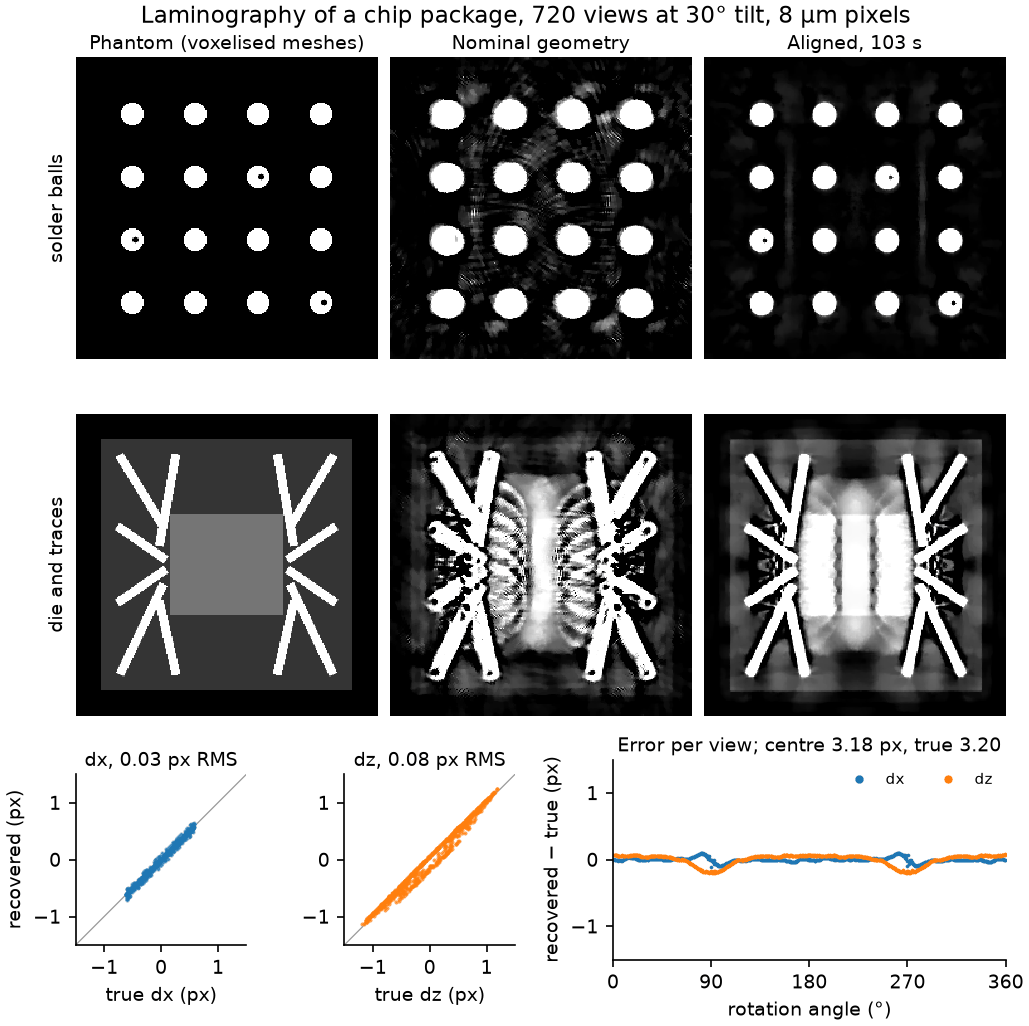
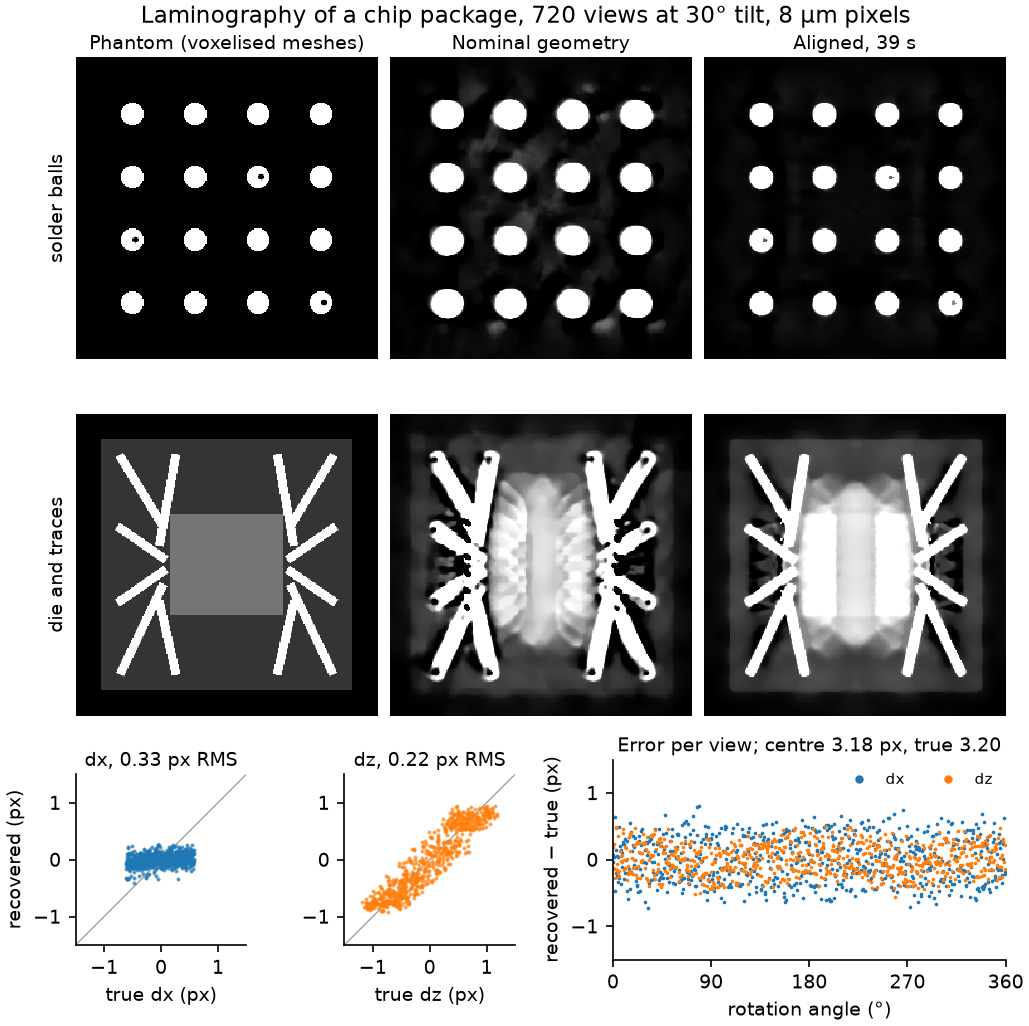
Remake the README alignment figure and the chip figure with today's tj.align
Both scripts now let FISTA-TV choose its TV weight: their fixed weights (0.01
and 5e-3) blurred every reconstruction, the true-pose one included, on today's
TV scale. The watch figure: 36 s to align, rotations to 0.06 deg RMS or
better, shifts to 0.47 / 0.29 px RMS (the slow wobble followed, the jitter
left), FISTA-TV error 0.876 nominal, 0.168 aligned, 0.199 at the true poses.
The chip figure: the centre to 0.02 px in 39 s, shifts to 0.33 / 0.22 px RMS.
The captions and records say so; the "earlier implementation" notes go.

The rock figure's second slice is now the one nearest the middle with no
calcite, pyrite or zircon nearby, whose streaks hid the grains; its docstring
gives the phantom's one-off build time.

diff --git a/examples/gallery/rock_alignment.py b/examples/gallery/rock_alignment.py
@@ -4,12 +4,13 @@ The sandstone core (``bench/phantoms/porous_rock.py``), voxelised 1.5 times fine
 384-voxel reconstruction grid, is scanned in parallel beam over a half turn without noise while
 it drifts smoothly by up to 4.5 voxels and slips by 6 voxels a third of the way through. The
 scan is reconstructed as loaded, with the nominal geometry, and after ``tj.align(scan)``; both use
-``tj.reconstruct``'s default method. Two slices through the sample, each with one enlarged
-region, share one grey range.
+``tj.reconstruct``'s default method. Two slices through the sample, clear of its calcite,
+pyrite and zircon grains, each with one enlarged region, share one grey range.
 
     uv run python examples/gallery/rock_alignment.py alignment-rock.png
 
-It takes about nine minutes on an 8 GB laptop GPU; ``--size 64`` makes a quick small version.
+The first run builds and caches the 576-voxel phantom, about nine minutes on the CPU; later
+runs take about 20 s on an 8 GB laptop GPU. ``--size 64`` makes a quick small version.
 """
 
 from __future__ import annotations
@@ -95,8 +96,19 @@ def main() -> None:
     core = radius < 0.33 * size  # crops on the sample's grains, not its outer edge
     filled = np.flatnonzero(truth.reshape(truth.shape[0], -1).mean(axis=1) > 0.5 * truth.mean())
     bottom = int(filled[0] * size / truth.shape[0]) + size // 32
-    heights = (("Lowest slice through the sample", bottom), ("Middle slice", size // 2))
-    top = float(np.percentile(aligned[size // 2][inside], 99.5))
+    # The second slice: the one nearest the middle with no grain denser than feldspar (calcite,
+    # pyrite, zircon) within two slices, whose streaks would hide the grains, and a quarter of
+    # the sample above the first.
+    ratio = truth.shape[0] / size
+    dense = truth.reshape(truth.shape[0], -1).max(axis=1) > 0.4
+    clear = [
+        z
+        for z in range(bottom + size // 4, int(filled[-1] / ratio) - size // 16)
+        if not dense[int((z - 2) * ratio) : int((z + 3) * ratio)].any()
+    ]
+    second = min(clear, key=lambda z: abs(z - size // 2))
+    heights = (("Lowest slice through the sample", bottom), ("A slice higher up", second))
+    top = float(np.percentile(aligned[second][inside], 99.5))
 
     side = CROP * size // N
     style()

diff --git a/examples/align_watch.py b/examples/align_watch.py
@@ -42,7 +42,7 @@ from tomojax.geometry import grid_volume_origin, stack_view_poses
 SIZE, LAYERS, FIELD, MIDDLE = 384, 82, 29.6, 3.0  # voxels, z layers, field (mm), centre z
 VIEWS, PHOTONS = 400, 2e4
 CENTER_PX, ROTATION_DEG = 5.3, 0.25
-RECONSTRUCTION = {"iterations": 100, "tv_weight": 0.01, "nonnegative": True, "warm_start": True}
+RECONSTRUCTION = {"iterations": 100, "nonnegative": True, "warm_start": True}
 ZOOM = 140  # voxels on a side of the balance close-up
 
 

diff --git a/examples/gallery/chip_laminography.py b/examples/gallery/chip_laminography.py
@@ -32,7 +32,7 @@ import numpy as np
 import tomojax as tj
 
 # Total variation keeps the metal's streaks down at laminography's limited angles.
-RECONSTRUCTION = {"iterations": 100, "tv_weight": 5e-3, "nonnegative": True}
+RECONSTRUCTION = {"iterations": 100, "nonnegative": True}
 
 
 def without_rigid_motion(values: np.ndarray, angles: np.ndarray) -> np.ndarray:

diff --git a/examples/README.md b/examples/README.md
@@ -65,19 +65,19 @@ from it. Over the whole slab the relative L2 error is 0.357 for FBP and
 400 views over a half turn and 2 × 10⁴ photons per pixel. The rotation axis
 projects 5.3 px off the detector centre, and every view has its own pose: a
 slow wobble plus jitter of up to 0.25° in each rotation, 2.4 px across the axis
-and 1.5 px along it. The earlier implementation used for the published figure took 300 s. It
-recovered the rotations to 0.06° RMS or better and the shifts to 0.07 px
-(across) and 0.04 px (along) RMS, and the error of a FISTA-TV reconstruction
-falls from 0.928 with the nominal geometry to 0.235. The script takes about
-6 minutes. Those measurements need requalification with the consolidated
-`fit=("translations", "rotations")` solver.
+and 1.5 px along it. `tj.align(scan, fit=("center", "translations", "rotations"))`
+takes 36 s. It recovers the rotations to 0.06° RMS or better and the shifts to
+0.47 px (across) and 0.29 px (along) RMS: it follows the slow wobble and leaves
+the view-to-view jitter. The error of a FISTA-TV reconstruction (automatic TV
+weight) falls from 0.876 with the nominal geometry to 0.168, against 0.199 with
+the true poses. The script takes about 4 minutes.
 
 Moving the whole movement rigidly, with every pose moved back, predicts the
 same data, as does trading the detector centre against a shift of every view,
 so `tj.align` reports the estimate with the least per-view motion. The truth,
 its poses and its centre are moved to that estimate before they are compared
 (see [where the aligned volume sits](../docs/align-a-scan.md#check-the-result));
-there the centre is found at 3.26 px against 3.31 px.
+there the centre is found at 3.08 px.
 
 ### Volume-render a reconstruction
 

diff --git a/docs/gallery.md b/docs/gallery.md
@@ -55,9 +55,9 @@ uv run python examples/gallery/k11_glass_layer.py k11-54286.nxs k11-glass-layer.
 A DIAD-like scan at 25 keV and 30° tilt, rendered by gVXR from the meshes of a
 chip package with phase contrast, detector blur, Poisson noise and flat
 fields. The detector is 3.2 pixels off the axis and the sample wobbles and
-jitters by about two pixels and 0.1° between views. The figure comes from an
-earlier alignment implementation, which found the centre to 0.02 pixels and the
-per-view shifts to 0.03 and 0.08 pixels in under two minutes; the voids in the
+jitters by about two pixels and 0.1° between views. `tj.align` finds the centre
+to 0.02 pixels in 39 s and follows the per-view shifts to 0.33 pixels across the
+axis and 0.22 pixels along it, leaving the jitter across it; the voids in the
 solder balls reappear.
 The shifts are compared after removing a rigid motion of the whole
 sample, which no reconstruction can detect; the errors that remain are

diff --git a/docs/align-a-scan.md b/docs/align-a-scan.md
@@ -101,7 +101,7 @@ the centre separately first. If you request `"center"` and `"translations"` toge
 translations are given zero mean: a common translation and a centre offset describe the same
 parallel-ray geometry, and the data cannot tell them apart.
 
-![A simulated sandstone plug sliced near its base and through its middle, as loaded and after tj.align(scan), each with an enlarged region. As loaded, the grains are doubled and smeared; after the call their edges are sharp.](images/alignment-rock.png)
+![A simulated sandstone plug sliced near its base and halfway up, as loaded and after tj.align(scan), each with an enlarged region. As loaded, the grains are doubled and smeared; after the call their edges are sharp.](images/alignment-rock.png)
 
 A simulated sandstone plug, 384 voxels across, drifts by up to four and a half voxels during a
 parallel-beam half turn and slips by six voxels a third of the way through. The plain

diff --git a/images/README.md b/images/README.md
@@ -40,8 +40,8 @@ the exact voxel average of the meshes, recorded in
 [alignment-example.png](alignment-example.png) comes from
 [align_watch.py](../examples/align_watch.py): 400 views on 77 µm voxels with
 the axis 5.3 px off centre and per-view wobble and jitter, aligned with
-`tj.align(scan, mode="cor-then-pose")`. Both volumes are FISTA-TV
-reconstructions with the same settings and every panel shares one grey scale.
+`tj.align(scan, fit=("center", "translations", "rotations"))`. Both volumes
+are FISTA-TV reconstructions with the same settings and every panel shares one grey scale.
 The truth, its poses and its centre are compared in the least-motion frame
 `tj.align` reports; [alignment-example.json](alignment-example.json) records
 the gauge removed and every error.

diff --git a/README.md b/README.md
@@ -34,8 +34,7 @@ average of the meshes, and FISTA-TV 0.125, in 15 s.
 
 `tomojax align` and `tj.align` solve the image and the requested geometry corrections together.
 The default fits per-view translations; add `"tilt"` and `"roll"` for shared setup angles,
-or `"rotations"` for per-view wobble. The figure above comes from an earlier alignment
-implementation. See [align a scan](https://tomojax.dev/align-a-scan/) for parameter selection and result checks.
+or `"rotations"` for per-view wobble. See [align a scan](https://tomojax.dev/align-a-scan/) for parameter selection and result checks.
 
 ## First reconstruction
 
